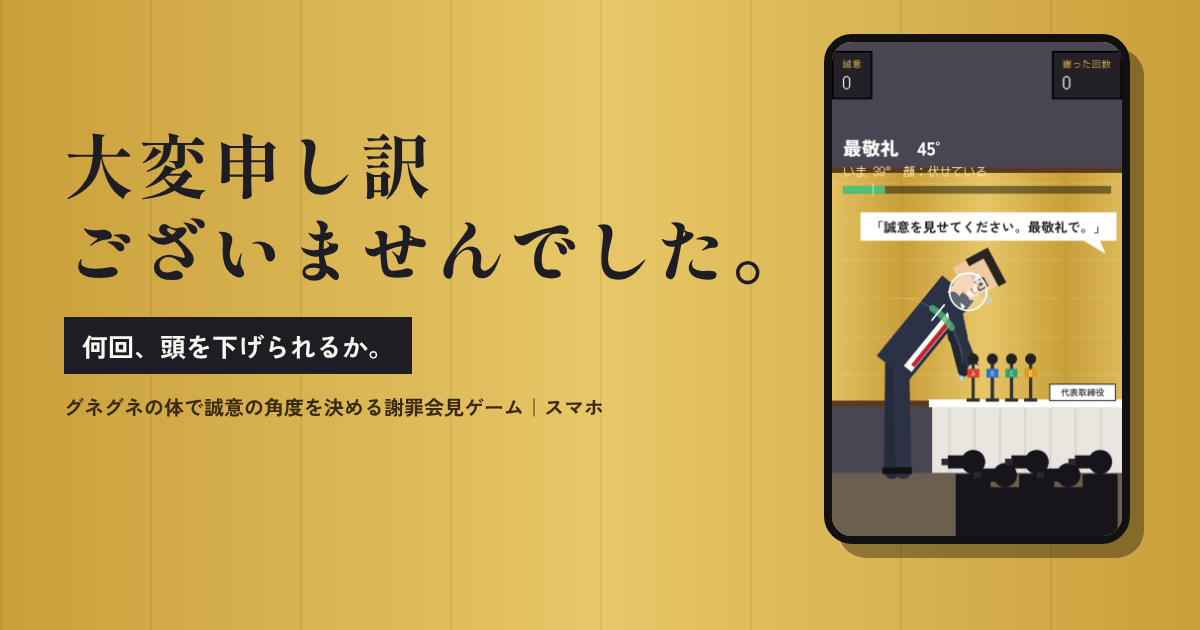
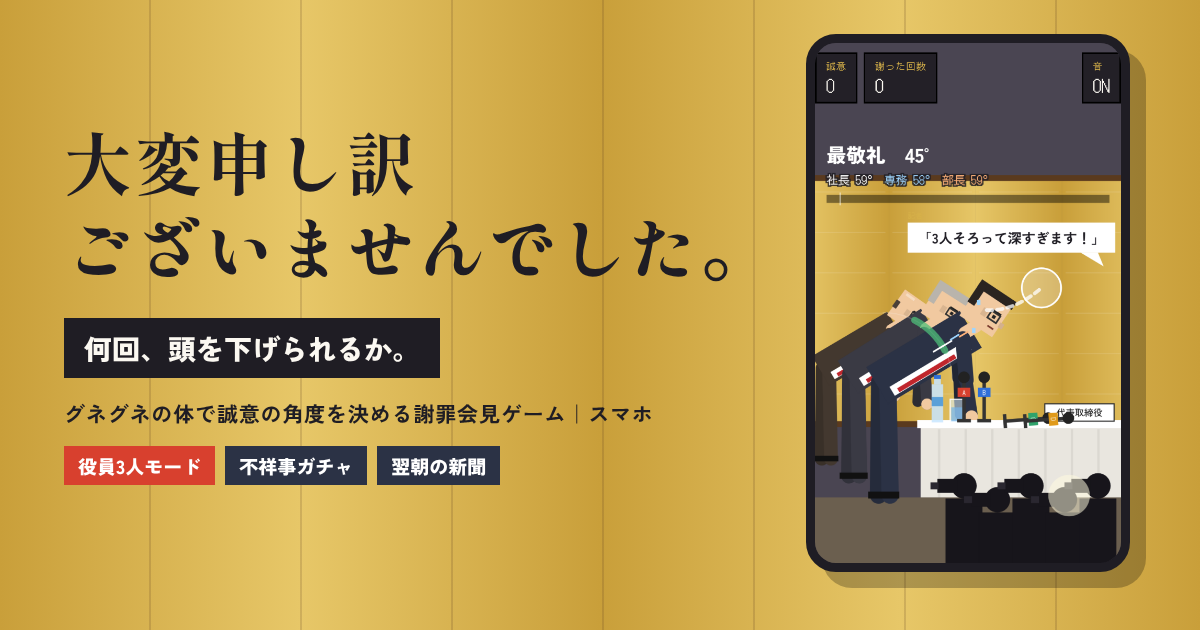
新聞の写真と画像つき投稿を追加、スクリーンショットとサムネイルを更新

diff --git a/index.html b/index.html
@@ -3,7 +3,7 @@
 <head>
 <meta charset="utf-8">
 <meta name="viewport" content="width=device-width, initial-scale=1, viewport-fit=cover">
-<meta name="description" content="グネグネ言うことを聞かない体の頭を指で引っぱり、記者が求める角度でお辞儀を決め続ける。失敗するまで終わらない謝罪会見ゲーム。">
+<meta name="description" content="グネグネ言うことを聞かない体の頭を指で引っぱり、記者が求める角度でお辞儀を決め続ける。不祥事ガチャ、役員3人モード、写真入りの翌朝の新聞つき。失敗するまで終わらない謝罪会見ゲーム。">
 <meta property="og:title" content="大変申し訳ございませんでした。">
 <meta property="og:description" content="グネグネの体で、記者が求める角度のお辞儀を決め続ける謝罪会見ゲーム。何回謝れるか。">
 <meta property="og:url" content="https://tamago-boro-156.github.io/owabi/">
@@ -89,6 +89,10 @@ kbd { font-family: var(--ui); font-size: 12px; border: 1px solid var(--ink); pad
 .titles b { font-family: var(--news); font-size: 13px; }
 .titles span { background: #1a1814; color: #f4efe2; padding: 3px 9px; font-family: var(--pixel); font-size: 13px; }
 .titles span:first-of-type { background: var(--red); }
+.photo { margin: 0; display: grid; gap: 3px; }
+.photo img { width: 100%; display: block; border: 1px solid #1a1814; }
+.photo figcaption { font-size: 11px; color: #4a4538; }
+.cardimg { width: 100%; max-height: 60vh; object-fit: contain; border: 1px solid #b9b09a; background: #f4efe2; }
 .rows { display: grid; grid-template-columns: auto 1fr auto; gap: 4px 10px; font-size: 13px; font-variant-numeric: tabular-nums; }
 .rows .g { font-family: var(--pixel); }
 .total { font-family: var(--pixel); font-size: 18px; }
@@ -127,17 +131,31 @@ kbd { font-family: var(--ui); font-size: 12px; border: 1px solid var(--ink); pad
       <div class="mast"><b>朝刊</b><span id="date"></span></div>
       <div class="kicker" id="kicker"></div>
       <h2 id="headline">見出し</h2>
+      <figure class="photo" id="photoBox" hidden><img id="photo" alt="会見の写真"><figcaption id="photoCap"></figcaption></figure>
       <p class="lead" id="lead"></p>
       <div class="rows" id="rows"></div>
       <div class="total" id="total"></div>
       <div class="titles" id="titles"></div>
     </div>
     <div class="share">
+      <button class="btn xbtn" id="cardShare" type="button">画像つきで投稿</button>
       <a class="btn xbtn" id="xShare" href="https://x.com/intent/post" target="_blank" rel="noopener">𝕏 でポスト</a>
       <button class="btn ghost" id="copyBtn" type="button">結果をコピー</button>
       <button class="btn" id="againBtn">もう一度、謝る</button>
     </div>
     <textarea id="shareText" readonly aria-label="ポストする文" hidden></textarea>
+  </div>
+</div>
+
+<div class="overlay" id="cardPanel" hidden>
+  <div class="panel">
+    <img class="cardimg" id="cardImg" alt="朝刊の画像">
+    <p class="sub">画像を保存してから「𝕏 を開く」を押し、投稿画面で保存した画像を添付してください。</p>
+    <div class="share">
+      <a class="btn" id="cardSave" download="owabi.png" href="#">画像を保存</a>
+      <a class="btn xbtn" id="cardX" href="https://x.com/intent/post" target="_blank" rel="noopener">𝕏 を開く</a>
+      <button class="btn ghost" id="cardClose" type="button">閉じる</button>
+    </div>
   </div>
 </div>
 
@@ -258,7 +276,7 @@ kbd { font-family: var(--ui); font-size: 12px; border: 1px solid var(--ink); pad
       water: { glass: 0, glassV: 0, bottle: 0, bottleV: 0, spilled: false, pour: 0, puddle: 0, stain: 0, drops: [] } });
     // はじめての会見（モードごと）は、最初の3回をやさしく。妨害も遅めに
     let played = false; try { played = !!localStorage.getItem(playedKey()); } catch (e) {}
-    st.easy = !played; st.touched = false;
+    st.easy = !played; st.touched = false; st.photos = {}; st.bestPts = -1; st.card = null;
     $('intro').hidden = true; $('result').hidden = true; reporter(null); hud();
   }
   const playedKey = () => st.mode === 'trio' ? 'owabi-played3' : 'owabi-played';
@@ -330,6 +348,8 @@ kbd { font-family: var(--ui); font-size: 12px; border: 1px solid var(--ink); pad
       grade = pts >= 85 ? '◎' : pts >= 60 ? '○' : '△';
       sfx.ok(); floatText(grade === '◎' ? pick(['誠意、伝わりました', '……お見事です', 'いい角度でした']) : pick(['……まあ、いいでしょう', 'ギリギリですね', '次はちゃんとお願いします']), 640, 210, '#ffe9a3', 28);
     } else { sfx.fail(); floatText('時間切れ', 640, 210, '#ff9a8a', 30); }
+    if (ok && pts > st.bestPts) { st.bestPts = pts; snap('best', Q.angle); }
+    if (!ok) snap('fail', Q.angle);
     st.score += pts; st.results.push({ Q, pts, grade, bonks: st.qBonks });
     st.wobT += st.wobble; if (ok && (Q.faceUp || Q.deepFace || Q.chiefExtra)) st.evCleared++;
     if (ok) st.q++;
@@ -369,6 +389,11 @@ kbd { font-family: var(--ui); font-size: 12px; border: 1px solid var(--ink); pad
     ].filter(x => x[0] > 0).sort((x, y) => y[0] - x[0]);
     if (n >= 20) head = '謝罪' + n + '回\n「謝り慣れすぎでは」と疑問の声';
     else if (picks.length) head = picks[0][1];
+    const ph = (picks.length && /頭突き|頭を|マイク/.test(head) && st.photos.bonk) ? ['bonk', st.photos.bonk] : st.photos.best ? ['best', st.photos.best] : st.photos.fail ? ['fail', st.photos.fail] : st.photos.bonk ? ['bonk', st.photos.bonk] : null;
+    const who3 = trio ? '社長（手前）ら役員3人' : '社長';
+    const cap = !ph ? '' : ph[0] === 'bonk' ? '机に頭を打ちつける' + who3 : ph[0] === 'best' ? ph[1].angle + '度で頭を下げる' + who3 : '求められた' + ph[1].angle + '度に届かない' + who3;
+    if (ph) { $('photo').src = ph[1].c.toDataURL('image/jpeg', 0.85); $('photoCap').textContent = cap + '＝会見場で'; }
+    $('photoBox').hidden = !ph;
     const titles = earnTitles(n, b, micsDown, S, trio);
     let lead = st.scandal.what + 'をめぐり、' + (trio ? '社長・専務・部長の3人がそろって会見を開き、' : '社長が会見を開き、') + (n ? n + '回にわたって頭を下げた。' : '頭を下げたものの、記者団の求める角度には一度も届かなかった。');
     const ev = st.evLog, evs = [];
@@ -391,9 +416,55 @@ kbd { font-family: var(--ui); font-size: 12px; border: 1px solid var(--ink); pad
     const text = '【大変申し訳ございませんでした。】\n「' + st.scandal.what + '」の謝罪会見で、' + (trio ? '役員3人で' : '') + n + '回頭を下げました。誠意スコア ' + total + '\n称号：' + titles[0] + '\n\n朝刊見出し「' + head.replace('\n', '　') + '」\n\n#大変申し訳ございませんでした #謝罪会見ゲーム';
     $('shareText').value = text + '\n' + shareUrl();
     $('xShare').href = 'https://x.com/intent/post?text=' + encodeURIComponent(text) + '&url=' + encodeURIComponent(shareUrl());
+    st.share = { text, head, kicker: $('kicker').textContent, photo: ph && ph[1].c, cap, total, n, titles, trio };
+    st.card = null; buildCard().catch(() => {});
     $('result').hidden = false; $('againBtn').focus();
   }
 
+  // 画像つき投稿用の朝刊（1080×1350）
+  async function buildCard() {
+    try { await document.fonts.ready; } catch (e) {}
+    const I = st.share, c = document.createElement('canvas'); c.width = 1080; c.height = 1350;
+    const g = c.getContext('2d'), M = '"Shippori Mincho", "Hiragino Mincho ProN", serif', X0 = 60, WD = 960;
+    g.fillStyle = '#f4efe2'; g.fillRect(0, 0, 1080, 1350);
+    g.strokeStyle = '#b9b09a'; g.lineWidth = 3; g.strokeRect(24, 24, 1032, 1302);
+    g.fillStyle = '#1a1814'; g.textBaseline = 'alphabetic';
+    g.font = '800 64px ' + M; g.textAlign = 'left'; g.fillText('朝刊', X0, 118);
+    const d = new Date(); g.font = '500 28px ' + UI; g.textAlign = 'right'; g.fillText(d.getFullYear() + '年' + (d.getMonth() + 1) + '月' + (d.getDate() + 1) + '日', X0 + WD, 112);
+    g.fillRect(X0, 140, WD, 5); g.fillRect(X0, 151, WD, 2);
+    let y = 214;
+    g.fillStyle = '#d8402e'; g.fillRect(X0, y - 38, 10, 48);
+    g.fillStyle = '#1a1814'; g.textAlign = 'left'; let kf = 36; g.font = '800 36px ' + M; while (kf > 22 && g.measureText(I.kicker).width > WD - 30) { kf -= 2; g.font = '800 ' + kf + 'px ' + M; } g.fillText(I.kicker, X0 + 26, y);
+    const lines = I.head.split('\n'); let fs = 92;
+    g.font = '800 ' + fs + 'px ' + M; while (fs > 50 && lines.some(l => g.measureText(l).width > WD)) { fs -= 4; g.font = '800 ' + fs + 'px ' + M; }
+    y += 30; lines.forEach(l => { y += fs * 1.15; g.fillText(l, X0, y); });
+    y += 34;
+    if (I.photo) {
+      const ph = Math.min(620, 1350 - y - 290), pw = Math.round(ph * I.photo.width / I.photo.height), px = X0 + (WD - Math.min(WD, pw)) / 2;
+      g.drawImage(I.photo, px, y, Math.min(WD, pw), ph); g.strokeStyle = '#1a1814'; g.lineWidth = 2; g.strokeRect(px, y, Math.min(WD, pw), ph);
+      y += ph + 40; g.font = '500 26px ' + UI; g.fillStyle = '#4a4538'; g.fillText(I.cap + '＝会見場で', px, y);
+    }
+    y = Math.max(y + 70, 1120);
+    g.fillStyle = '#1a1814'; g.font = '40px ' + PX; g.fillText('謝った回数 ' + I.n + '　誠意スコア ' + I.total, X0, y);
+    y += 62; g.font = '700 26px ' + M; g.fillText('本日の称号', X0, y - 8);
+    let x = X0 + 160; g.font = '30px ' + PX;
+    I.titles.slice(0, 3).forEach((t, i) => { const w = g.measureText(t).width + 36; if (x + w > X0 + WD) return; g.fillStyle = i ? '#1a1814' : '#d8402e'; g.fillRect(x, y - 44, w, 52); g.fillStyle = '#f4efe2'; g.fillText(t, x + 18, y - 8); x += w + 12; });
+    g.fillStyle = '#1a1814'; g.fillRect(X0, 1250, WD, 2);
+    g.font = '700 28px ' + M; g.fillText('大変申し訳ございませんでした。', X0, 1296);
+    g.font = '500 22px ' + UI; g.textAlign = 'right'; g.fillText(GAME_URL.replace('https://', ''), X0 + WD, 1294);
+    st.card = c;
+    const blob = await new Promise(r => c.toBlob(r, 'image/png'));
+    try { const f = new File([blob], 'owabi.png', { type: 'image/png' }); if (navigator.canShare && navigator.canShare({ files: [f] })) st.cardFile = f; else st.cardFile = null; } catch (e) { st.cardFile = null; }
+    return c;
+  }
+  const GAME_URL = 'https://tamago-boro-156.github.io/owabi/';
+  function openCard() {
+    if (!st.card) return;
+    if (st.cardFile) { navigator.share({ files: [st.cardFile], text: st.share.text + '\n' + shareUrl() }).catch(() => {}); return; }
+    const url = st.card.toDataURL('image/png');
+    $('cardImg').src = url; $('cardSave').href = url; $('cardX').href = $('xShare').href;
+    $('cardPanel').hidden = false;
+  }
   function newsStats(n, b, micsDown) {
     const ok = st.results.filter(r => r.grade !== '×'), perfect = st.results.filter(r => r.grade === '◎');
     const cnt = {}; perfect.forEach(r => cnt[r.Q.angle] = (cnt[r.Q.angle] || 0) + 1);
@@ -434,6 +505,8 @@ kbd { font-family: var(--ui); font-size: 12px; border: 1px solid var(--ink); pad
   renderSound();
   // the public address of the game: the page itself when it is hosted on its own site, otherwise this artifact
   function shareUrl() { return /github\.io$/.test(location.hostname) ? location.origin + location.pathname : 'https://claude.ai/artifact/SdxQ2h5aNdcDH2RA67DSC7'; }
+  $('cardShare').addEventListener('click', openCard);
+  $('cardClose').addEventListener('click', () => { $('cardPanel').hidden = true; });
   $('copyBtn').addEventListener('click', () => {
     const t = $('shareText');
     navigator.clipboard.writeText(t.value).then(() => { $('copyBtn').textContent = 'コピーしました'; setTimeout(() => $('copyBtn').textContent = '結果をコピー', 1800); })
@@ -495,6 +568,7 @@ kbd { font-family: var(--ui); font-size: 12px; border: 1px solid var(--ink); pad
     const P = bodyPts();
     if (P.hd.x > TABLE_X0 - 10 && P.hd.y + HEAD_R * 0.8 > TABLE_Y) {
       if (st.thv > 25 || st.phv > 60) {
+        if (!st.photos.bonk || Math.random() < 0.35) snap('bonk');
         st.bonks++; st.qBonks++; sfx.bonk(); st.shake = 1; floatText('ゴンッ！', P.hd.x + 30, P.hd.y - 40, '#ff6a50', 40);
         knockWater(1);   // the whole table jumps
         if (st.phase === 'play') { reporter(pick(['「今の、わざとですか？」', '「大丈夫ですか！？」', '「机に謝ってどうするんですか」', '「いい音しましたね」', '「頭突きは謝罪じゃないです」', '「机が謝られてます」', '「救急車、呼びます？」'])); st.prog = Math.max(0, st.prog - 0.8); }
@@ -816,6 +890,26 @@ kbd { font-family: var(--ui); font-size: 12px; border: 1px solid var(--ink); pad
       ctx.lineWidth = 6; ctx.strokeStyle = '#1f1d24'; ctx.strokeText(t.txt, t.x, t.y); ctx.fillStyle = t.color; ctx.fillText(t.txt, t.x, t.y);
     });
     ctx.globalAlpha = 1;
+  }
+  // 新聞の写真：その瞬間の会場を、文字や目盛りを抜いて描き直し、白黒にして切り取る
+  function snap(kind, angle) {
+    try {
+      ctx.save(); ctx.setTransform(DPR * K, 0, 0, DPR * K, DPR * OX, DPR * OY);
+      drawRoom(); drawMen(); drawTable(); drawPress();
+      ctx.restore();
+      const vx = VIEW.x, vy = 205, vw = VIEW.w, vh = 400;
+      const c = document.createElement('canvas'); c.width = 795; c.height = 600;
+      const g = c.getContext('2d');
+      g.drawImage(cv, (OX + vx * K) * DPR, (OY + vy * K) * DPR, vw * K * DPR, vh * K * DPR, 0, 0, c.width, c.height);
+      const im = g.getImageData(0, 0, c.width, c.height), d = im.data;
+      for (let i = 0; i < d.length; i += 4) {
+        let y = 0.3 * d[i] + 0.59 * d[i + 1] + 0.11 * d[i + 2];
+        y = Math.max(0, Math.min(255, (y - 128) * 1.25 + 128 + (Math.random() - 0.5) * 18));   // 少し硬調に、粒子も足す
+        d[i] = d[i + 1] = d[i + 2] = y;
+      }
+      g.putImageData(im, 0, 0);
+      st.photos[kind] = { c, angle };
+    } catch (e) {}
   }
   function draw() {
     ctx.setTransform(DPR, 0, 0, DPR, 0, 0); ctx.fillStyle = '#3a3640'; ctx.fillRect(0, 0, W, H);

diff --git a/README.md b/README.md
@@ -8,6 +8,10 @@
 |---|---|
 | ![プレイ画面](docs/play.png) | ![結果画面](docs/result.png) |
 
+結果は、会見中の写真が載った朝刊の画像として X に投稿できます。
+
+<img src="docs/card.png" alt="投稿用の朝刊の画像" width="360">
+
 ## 遊び方
 
 1. 画面を指でつかんで引っぱると、頭がその方向へグネっと引き寄せられます。
@@ -30,7 +34,7 @@
 - **記者のツッコミ**：角度や揺れ方に応じて「それは会釈ですか？」「床に何か落ちてます？」「こんにゃくみたいですよ」などの声が飛びます。
 - **翌朝の新聞**：会見でいちばん目立った出来事が見出しになります。「社長、謝罪中に頭突き6連発」「誠意が伝わる奇跡の45度」「役員の足並みそろわず」など。20回を超えると「謝り慣れすぎでは」と別の疑惑が浮上します。
 - **本日の称号**：「マイク破壊王」「誠意の鬼」「こんにゃく社長」「反省ゼロ」など、会見の内容に応じて最大3つの称号がつき、X の投稿にも入ります。
-- **スコアの共有**：結果の画面から、見出しとスコアを X にポストできます。
+- **新聞の写真と画像での共有**：いちばん良い角度で止まった瞬間や、頭を打った瞬間を白黒の報道写真として新聞に載せます。新聞は1枚の画像になり、スマホでは「画像つきで投稿」からそのまま X に投稿できます。
 
 ## 技術
 
